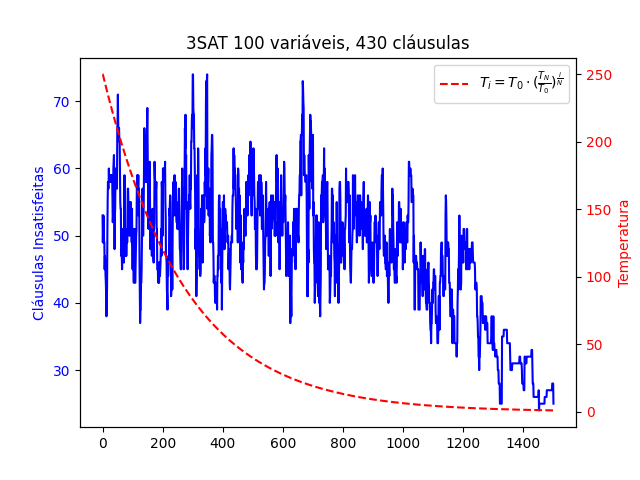
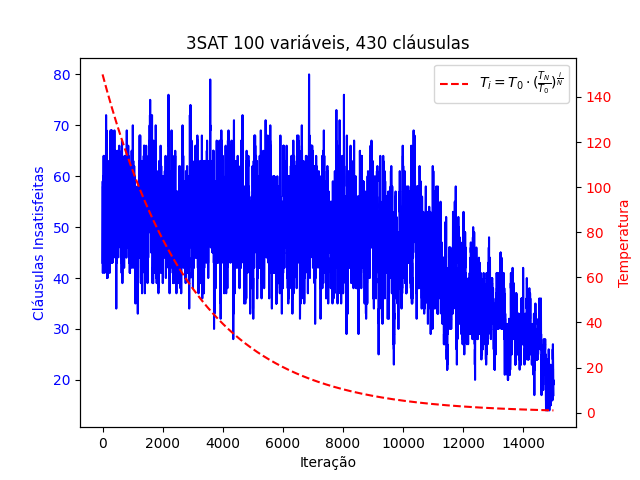
correção

diff --git a/src/annealing/annealing.py b/src/annealing/annealing.py
@@ -1,16 +1,16 @@
 import numpy
 from abc import abstractmethod, ABC
     
-def cooling_schedule1(i, t0, t_final, i_max):
-    return t0 * (t_final/t0) ** (i/i_max)
+def cooling_schedule1(i, t0, t_final, eval_max):
+    return t0 * (t_final/t0) ** (i/eval_max)
 
-def cooling_schedule2(i, t0, t_final, i_max):
-    A = ((t0 - t_final) * (i_max + 1)) / i_max
+def cooling_schedule2(i, t0, t_final, eval_max):
+    A = ((t0 - t_final) * (eval_max + 1)) / eval_max
     B = t0 - A
     return A / (i+1) + B
 
-def cooling_schedule3(i, t0, t_final, i_max):
-    return 0.5 * (t0 - t_final) * (1 - numpy.tanh(10*i/i_max - 5)) + t_final
+def cooling_schedule3(i, t0, t_final, eval_max):
+    return 0.5 * (t0 - t_final) * (1 - numpy.tanh(10*i/eval_max - 5)) + t_final
 
 COOLING_SCHEDULES = [
     cooling_schedule1,
@@ -47,53 +47,54 @@ class Domain(ABC):
 
 
 class SimulatedAnnealing:
-    def __init__(self, cooling_schedule_i: int, domain: Domain, mode='minimize'):
+    def __init__(self, cooling_schedule_i: int, domain: Domain):
         self.domain = domain
-        self.mode = mode
         self.cooling_schedule = COOLING_SCHEDULES[cooling_schedule_i - 1]
 
-    def run(self, t0, t_final, i_max) -> dict:
+    def run(self, t0, t_final, sa_max, eval_max) -> dict:
+        iter_t = 0
+        i_eval = 0
+        t = t0
         current = self.domain.random_value()
         current_energy = self.domain.cost(current)
         best_ever = current
         best_ever_energy = current_energy
-        t = t0
-        scores = [current_energy]
+        
+        # Para registro
+        energies = [current_energy]
         temperatures = [t0]
-        i = 0
         
-        while i < i_max:
-            neighbour = self.domain.get_neighbour(current)
-            neighbour_energy = self.domain.cost(neighbour)
-            energy_delta = neighbour_energy - current_energy
+        while i_eval < eval_max:
+            i_eval += 1
             
-            if is_better_solution(energy_delta, self.mode) or accept_worse(energy_delta, t):
-                current = neighbour
-                current_energy = neighbour_energy
+            while iter_t < sa_max:
+                iter_t += 1
+                neighbour = self.domain.get_neighbour(current)
+                neighbour_energy = self.domain.cost(neighbour)
+                energy_delta = neighbour_energy - current_energy
                 
-            if is_best_ever(current_energy, best_ever_energy, self.mode):
-                best_ever = current
-                best_ever_energy = current_energy
+                if energy_delta < 0:
+                    current = neighbour
+                    current_energy = neighbour_energy
+                    if neighbour_energy < best_ever_energy:
+                        best_ever = neighbour
+                        best_ever_energy = neighbour_energy
                 
-            t = self.cooling_schedule(i, t0, t_final, i_max)
-            i += 1
+                elif accept_worse(energy_delta, t):
+                    current = neighbour
+                    current_energy = neighbour_energy
             
-            # Registro de valores
+            t = self.cooling_schedule(i_eval, t0, t_final, eval_max)
+            iter_t = 0
             temperatures.append(t)
-            scores.append(current_energy)
-        
+            energies.append(current_energy)
+                
         return {
             'temperatures': temperatures,
-            'scores': scores,
+            'energies': energies,
             'best_ever': best_ever,
             'best_ever_energy': best_ever_energy,
         }
 
-def is_best_ever(new_score, best, mode):
-    return new_score < best if mode == 'minimize' else new_score > best
-
-def is_better_solution(energy_delta, mode):
-    return energy_delta < 0 if mode == 'minimize' else energy_delta > 0
-
 def accept_worse(energy_delta, temperature):
-    return numpy.random.rand() < numpy.exp(-energy_delta/temperature) if temperature != 0 else False # não funciona em caso de maximização
+    return numpy.random.rand() < numpy.exp(-energy_delta/temperature) if temperature != 0 else False

diff --git a/example_experiment.py b/example_experiment.py
@@ -7,36 +7,40 @@ from src.sat import SATDomain
 FORMULAS_DIR = './instances'
 RESULTS_DIR = './results/example_experiment'
 
+# Configurações de experimento
+COOLING_SCHEDULE = 1
+
 if not os.path.exists(RESULTS_DIR):
     os.mkdir(RESULTS_DIR)
 
 files = os.listdir(FORMULAS_DIR)
 paths = [os.path.join(FORMULAS_DIR, f) for f in files]
-instances = [SATDomain(p, flip_prob=0.05) for p in paths]
+instances = [SATDomain(p, flip_prob=0.01) for p in paths]
 
 sa = SimulatedAnnealing(
-    cooling_schedule_i=1,
+    cooling_schedule_i=COOLING_SCHEDULE,
     domain=instances[0],
-    mode='minimize',
 )
 
 run1 = sa.run(
-    t0=250,
+    t0=150,
     t_final=1,
-    i_max=1500
+    sa_max=5,
+    eval_max=15000,
 )
-scores = run1['scores']
+energies = run1['energies']
 temperatures = run1['temperatures']
 
 # Plotando gráfico de energia
 _, ax_energy = plt.subplots()
-ax_energy.plot(range(len(scores)), scores, 'b')
+ax_energy.plot(range(len(energies)), energies, 'b')
 ax_energy.set_ylabel('Cláusulas Insatisfeitas', color='blue')
+ax_energy.set_xlabel('Iteração')
 ax_energy.tick_params(axis='y', labelcolor='blue')
 
 # Plotando gŕafico de temperatura
 ax_temp = ax_energy.twinx()
-ax_temp.plot(range(len(temperatures)), temperatures, 'r--', label=get_cooling_schedule_label(1))
+ax_temp.plot(range(len(temperatures)), temperatures, 'r--', label=get_cooling_schedule_label(COOLING_SCHEDULE))
 ax_temp.set_ylabel('Temperatura', color='red')
 ax_temp.tick_params(axis='y', labelcolor='red')
 

diff --git a/sa_max_experiment.py b/sa_max_experiment.py
@@ -1,0 +1,17 @@
+import os
+import matplotlib.pyplot as plt
+from src.annealing import SimulatedAnnealing, get_cooling_schedule_label
+from src.sat import SATDomain
+
+# Configurações de diretório
+FORMULAS_DIR = './instances'
+RESULTS_DIR = './results/sa_max_experiment'
+
+# Configuração de experimento
+
+if not os.path.exists(RESULTS_DIR):
+    os.mkdir(RESULTS_DIR)
+
+files = os.listdir(FORMULAS_DIR)
+paths = [os.path.join(FORMULAS_DIR, f) for f in files]
+instances = [SATDomain(p, flip_prob=0.01) for p in paths]
